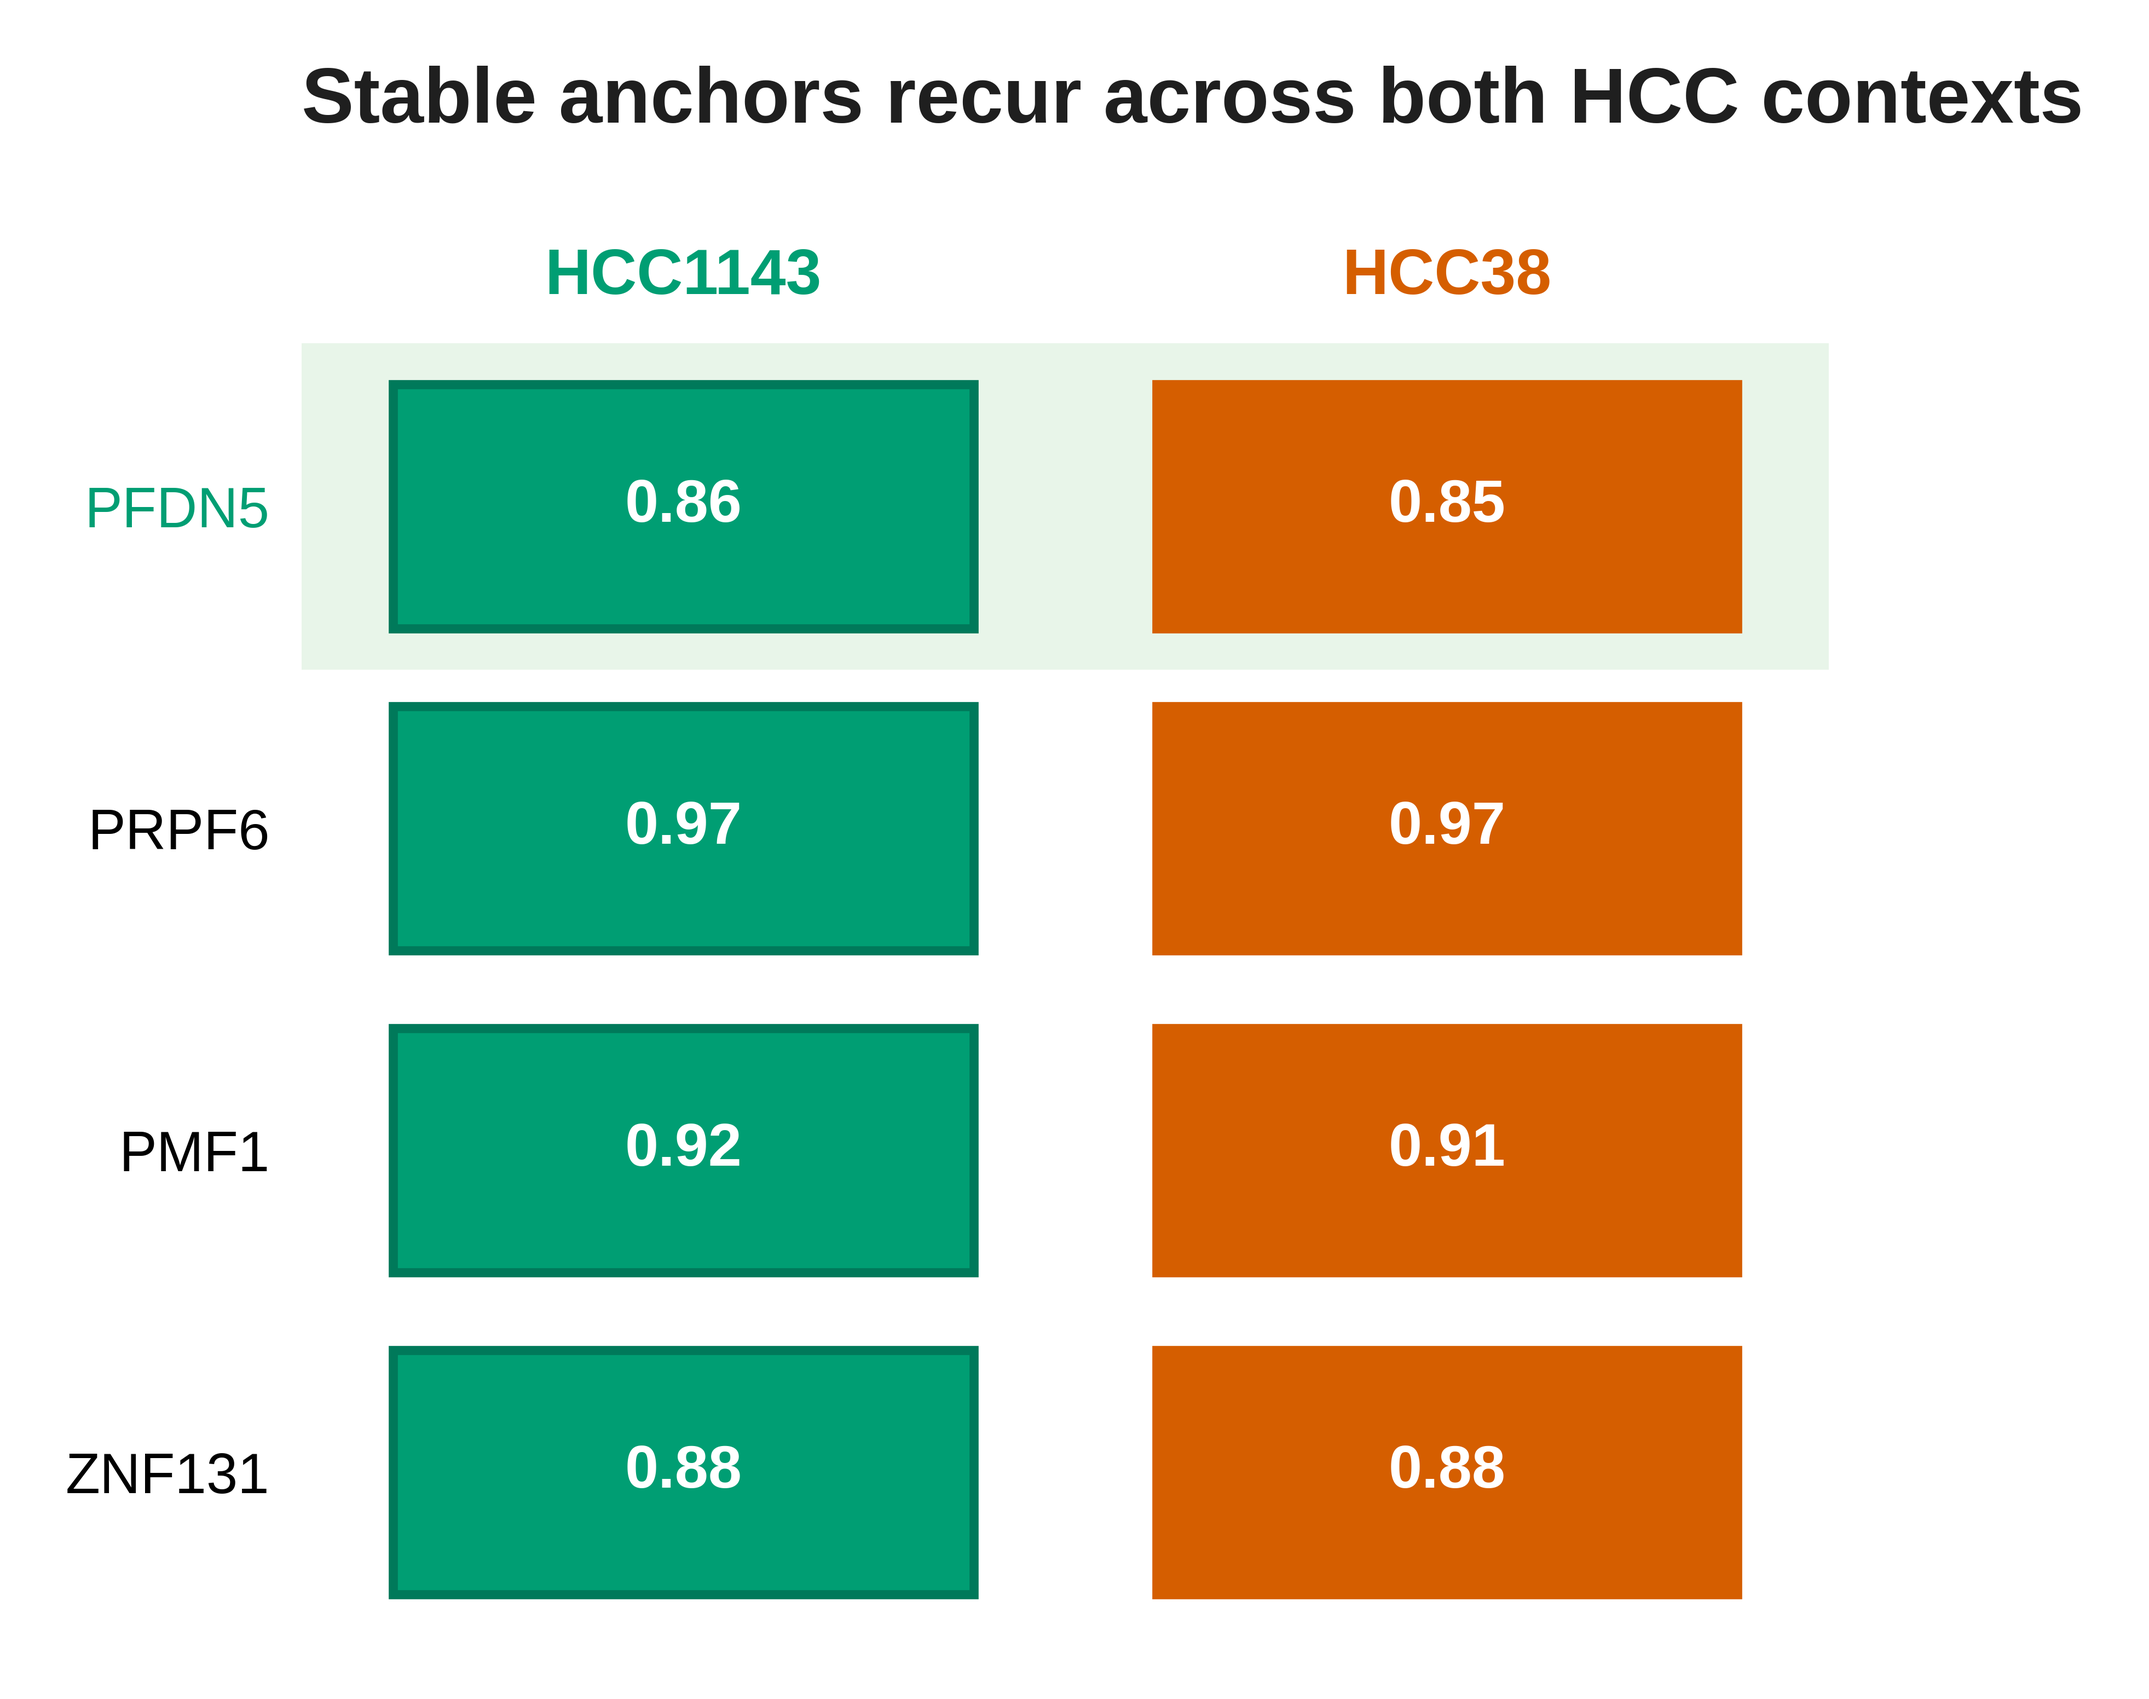
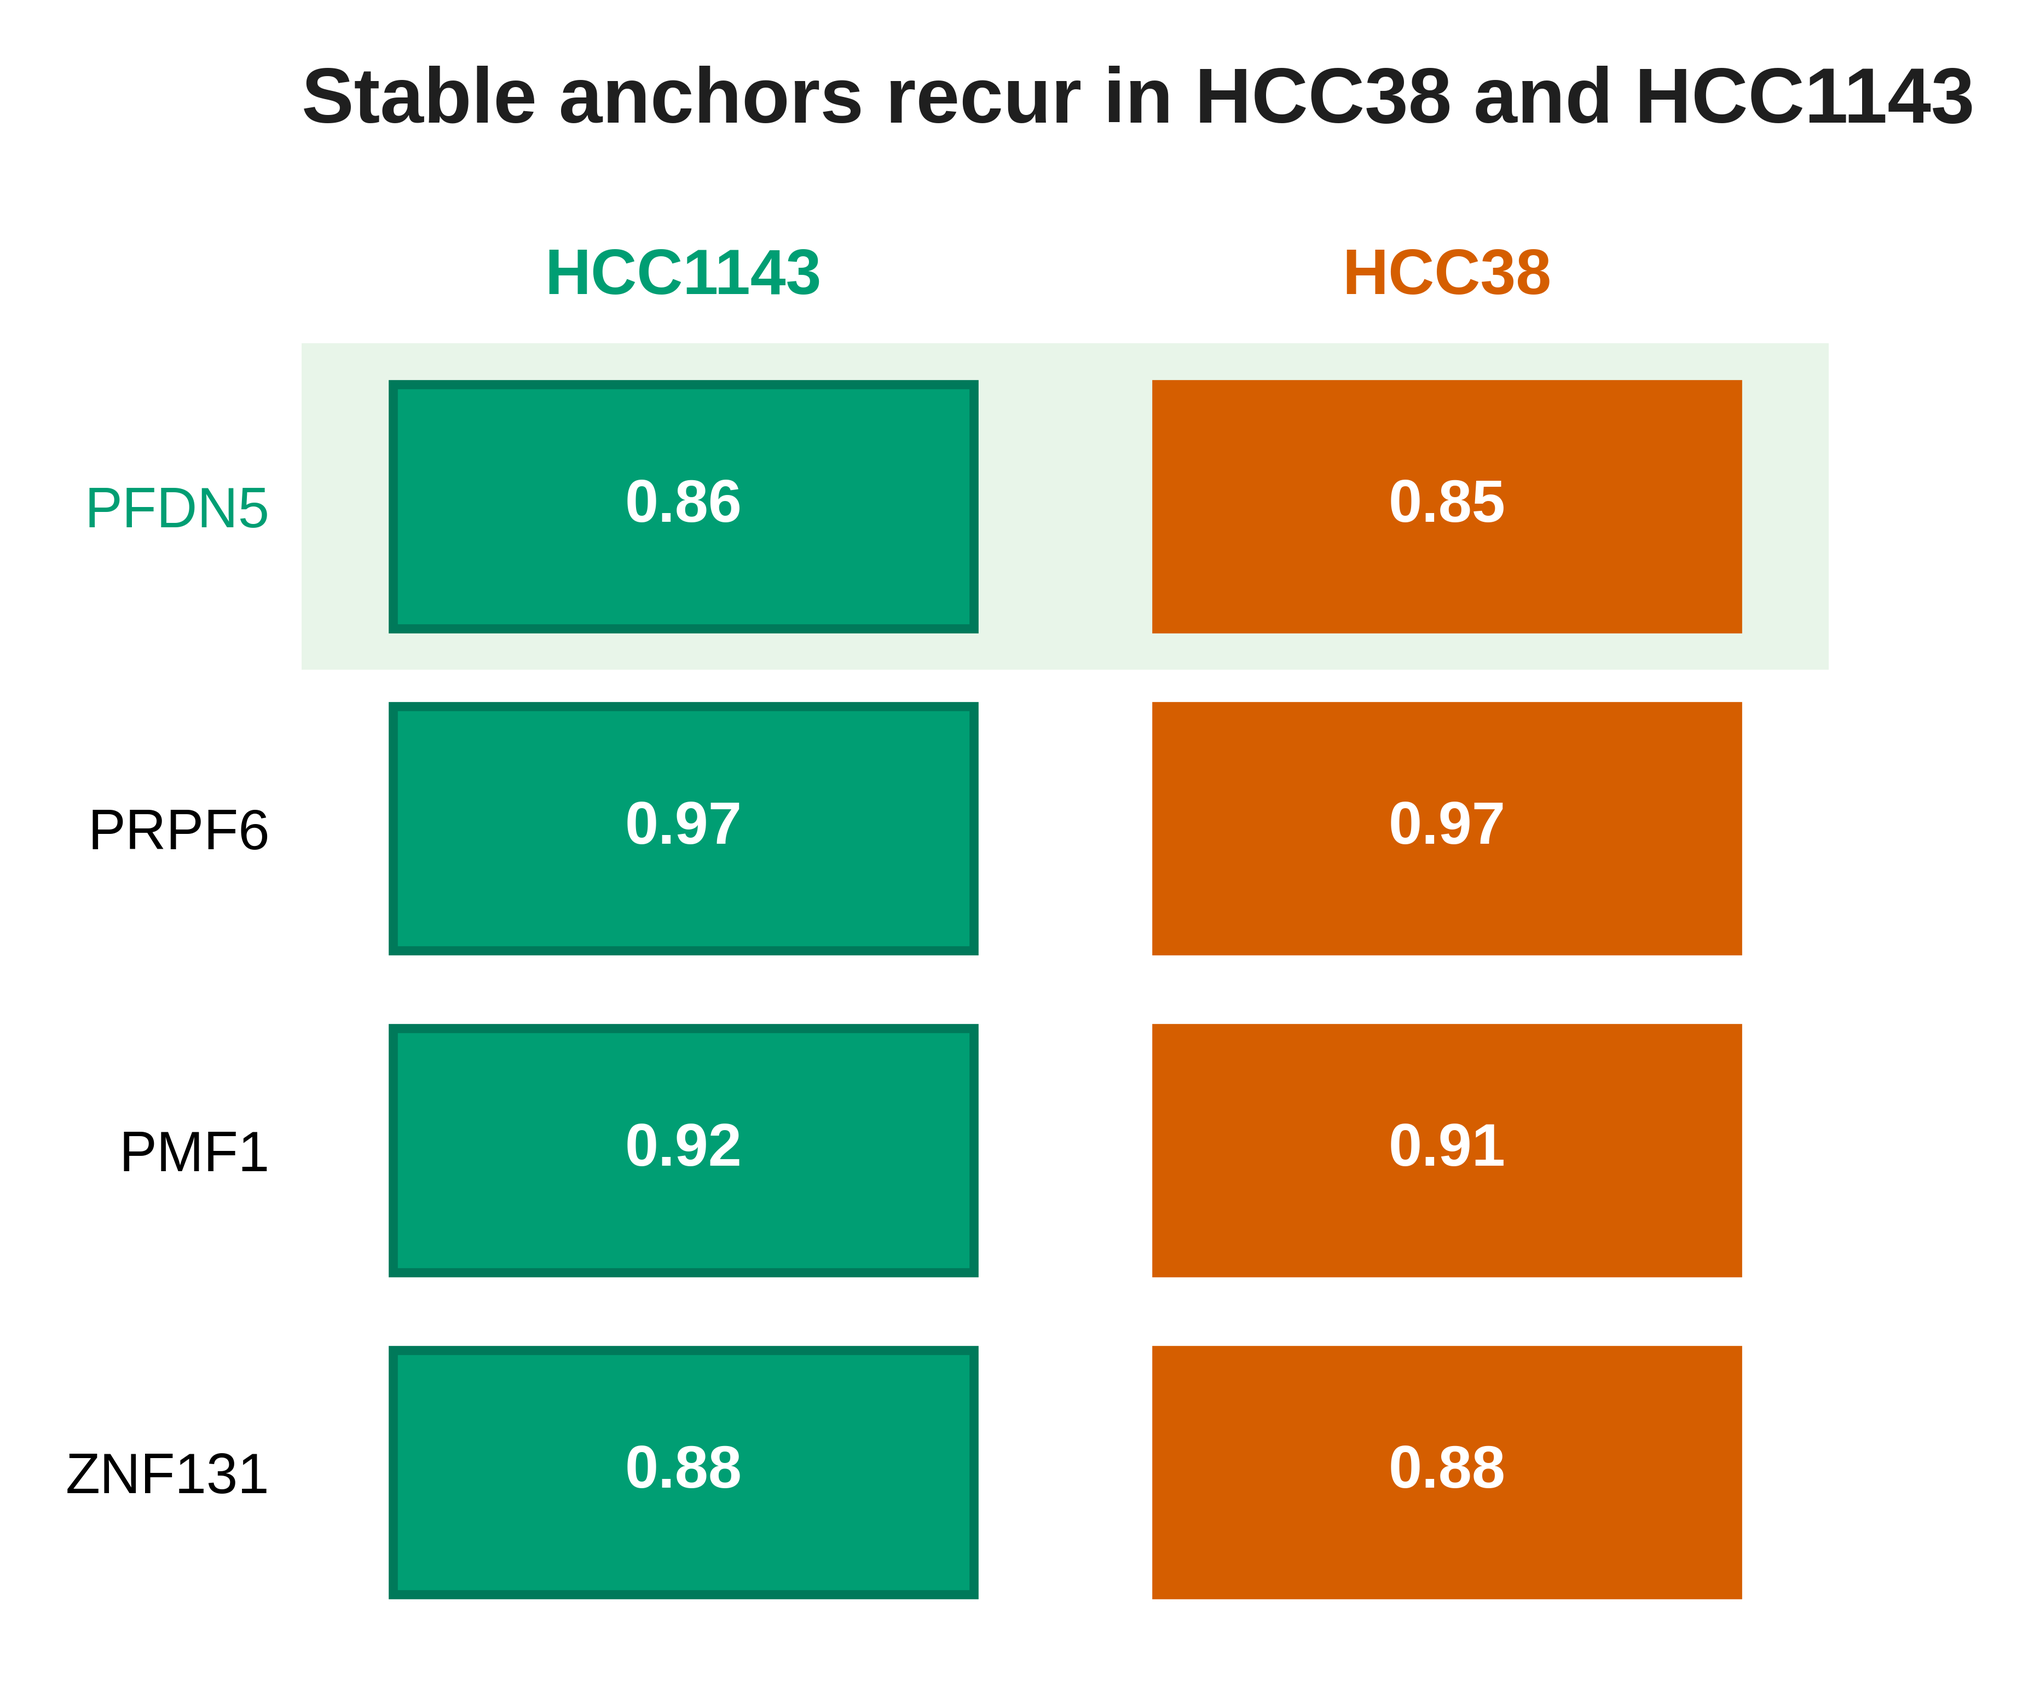
Clarify HCC context labels

diff --git a/figure_build/ed_figure2/build_edfigure2_metric_robustness.py b/figure_build/ed_figure2/build_edfigure2_metric_robustness.py
@@ -8,12 +8,17 @@ env = {**os.environ, "PYTHONPATH": str(ROOT / "src")}
 subprocess.run([sys.executable, str(ROOT / "scripts/manuscript/build_extended_data_figure13.py")], cwd=ROOT, check=True, env=env)
 pdst = TEST / "Extended_Data_Figure_2" / "panels"
 pdst.mkdir(parents=True, exist_ok=True)
+composite_out = ROOT / "manuscript/build_scripts/output/Extended_Data_Figure_2"
+composite_pdst = composite_out / "panels"
+composite_pdst.mkdir(parents=True, exist_ok=True)
 src = ROOT / "reports/manuscript_extended_data_v1/edfig13_metric_robustness/panels"
 for letter in ("a", "b", "c", "d"):
     for ext in [".png", ".pdf", "_source_data.tsv"]:
         s = src / f"edfig13_panel{letter}{ext}"
         if s.exists():
-            shutil.copy2(s, pdst / f"Extended_Data_Figure_2_panel_{letter}{ext}")
+            dst_name = f"Extended_Data_Figure_2_panel_{letter}{ext}"
+            shutil.copy2(s, pdst / dst_name)
+            shutil.copy2(s, composite_pdst / dst_name)
 
 # Combined figure
 for ext in [".png", ".pdf", "_source_data.tsv"]:
@@ -39,7 +44,11 @@ for src_name, dst_name in {
     s = panel_e_tmp / src_name
     if s.exists():
         shutil.copy2(s, pdst / dst_name)
+        shutil.copy2(s, composite_pdst / dst_name)
 shutil.rmtree(panel_e_tmp)
 subprocess.run([sys.executable, str(ROOT / "scripts/manuscript/build_edfig2_composite.py")], cwd=ROOT, check=True, env=env)
+composite_png = composite_out / "Extended_Data_Figure_2.png"
+if composite_png.exists():
+    shutil.copy2(composite_png, TEST / "Extended_Data_Figure_2" / "Extended_Data_Figure_2.png")
 
 print(f"  Extended_Data_Figure_2 all panels + combined -> {TEST}")

diff --git a/src/wtbench/manuscript/extended_data_figure13.py b/src/wtbench/manuscript/extended_data_figure13.py
@@ -444,7 +444,7 @@ def render_panel_c(ax: plt.Axes, df: pd.DataFrame) -> None:
     ax.scatter([legend_x], [0.31], color=colors["RNAi"], s=16, transform=ax.transAxes, clip_on=False)
     ax.text(legend_x + 0.035, 0.31, "RNAi", color=colors["RNAi"], fontsize=5.6, va="center", transform=ax.transAxes)
     ax.scatter([legend_x], [0.23], color=NEUTRAL_GRAY, marker="o", s=16, transform=ax.transAxes, clip_on=False)
-    ax.text(legend_x + 0.035, 0.23, "HCC", color=NEUTRAL_GRAY, fontsize=5.6, va="center", transform=ax.transAxes)
+    ax.text(legend_x + 0.035, 0.23, "HCC38/HCC1143", color=NEUTRAL_GRAY, fontsize=5.6, va="center", transform=ax.transAxes)
     ax.scatter([legend_x], [0.15], color=NEUTRAL_GRAY, marker="^", s=16, transform=ax.transAxes, clip_on=False)
     ax.text(legend_x + 0.035, 0.15, "K562", color=NEUTRAL_GRAY, fontsize=5.6, va="center", transform=ax.transAxes)
     clean_axes(endpoint_ax)
@@ -502,7 +502,7 @@ def render_panel_d(ax: plt.Axes, df: pd.DataFrame) -> None:
         inset.set_xlabel(r"Aligned Spearman $\rho$")
         clean_axes(inset)
         inset.grid(axis="x", color=COLORS["grid"], linewidth=0.5)
-    axes[0].set_ylabel("Truth metric")
+    axes[0].set_ylabel("Operational metric")
 
 
 def render_panel_by_id(panel_id: str) -> Callable[[plt.Axes, pd.DataFrame], None]:

diff --git a/src/wtbench/manuscript/figure2_anchor_tiering.py b/src/wtbench/manuscript/figure2_anchor_tiering.py
@@ -376,7 +376,7 @@ def render_panel_b(ax: plt.Axes, df: pd.DataFrame) -> None:
             fontweight="bold",
             color=PRIMARY_GREEN if cl == "HCC1143" else VERMILLION,
         )
-    _add_panel_heading(ax, "b", "Stable anchors recur across both HCC contexts", label_x=-0.04)
+    _add_panel_heading(ax, "b", "Stable anchors recur in HCC38 and HCC1143", label_x=-0.04)
     ax.tick_params(length=0)
     ax.set_facecolor("white")
     for spine in ax.spines.values():
